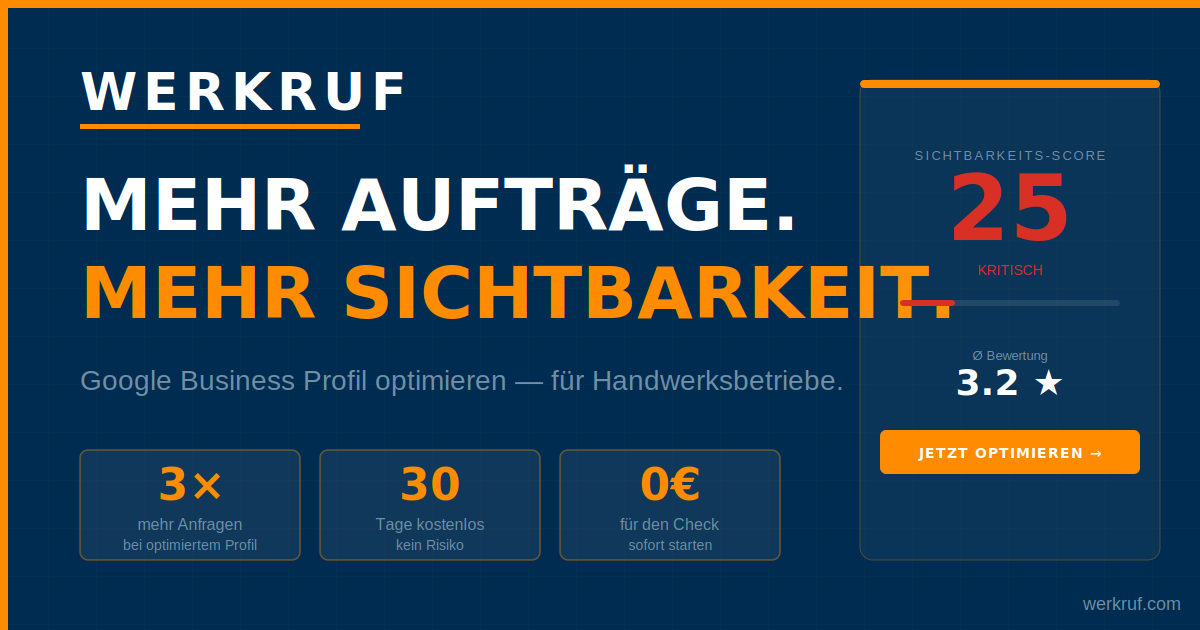
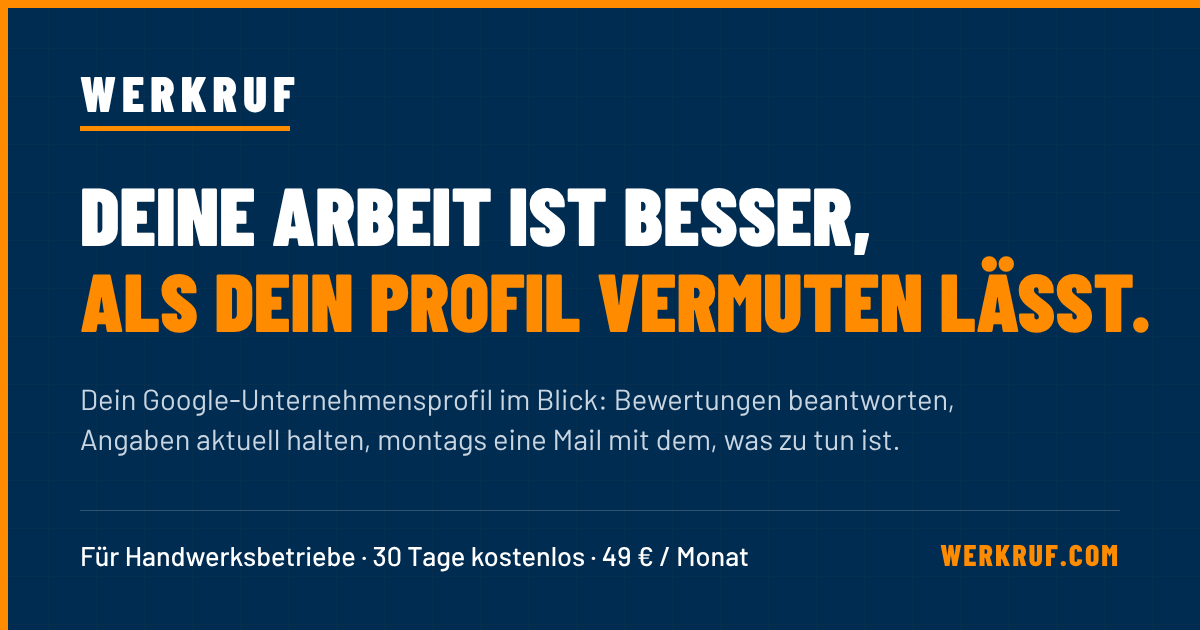
Website: honest link preview, "Wer dahintersteht", SMS mention, outreach privacy text
- og-image (svg + png) replaced: the old preview promised "3× mehr
  Anfragen", "Mehr Aufträge. Mehr Sichtbarkeit." and a free check that
  no longer exists; the new one uses the hero line, what WERKRUF does
  and the price
- Page title, description, keywords and social tags without "Mehr
  Aufträge" / "Sichtbarkeit steigern"
- New homepage section "Wer dahintersteht": name, city, e-mail and
  phone from config/anbieter.js (same source as the imprint)
- SMS review request (live since WP14) now mentioned in the review card
  and the price list; FAQ/closing CTA no longer say "Den Rest macht
  WERKRUF" / "Den Rest kannst du vergessen"
- Privacy policy section 16 describes the current outreach: finding
  note, subject variants, open detection, manual reply note, at most one
  reminder, objection via "Nein", minimal block record
- Tests: public-truth test now also covers index.html and og-image.svg;
  W1 feature-truth updated to link, QR code and SMS

Claude-Session: https://claude.ai/code/session_019hF6PNgtYwQ9GwYG434gR8

diff --git a/src/components/WerDahinter.js b/src/components/WerDahinter.js
@@ -1,0 +1,90 @@
+/*
+ * „Wer dahintersteht" — ein kurzer Abschnitt auf der Startseite.
+ *
+ * Warum: Betriebe und Innungen schauen vor einer Antwort zuerst auf
+ * werkruf.com. Bis hier sagte die Seite nirgends, wer WERKRUF macht —
+ * der Name stand nur im Impressum. Ein Einzelanbieter wirkt nicht
+ * kleiner, wenn er sich zeigt, sondern erreichbarer.
+ *
+ * Nur Tatsachen: Name, Ort, direkter Kontakt (aus config/anbieter.js,
+ * derselben Quelle wie das Impressum). Keine erfundenen Kundenzahlen,
+ * Zitate oder Gründungsgeschichten.
+ *
+ * Nur fuer die Handwerks-Marke; andere Branchen (Gastro/Beauty) sind
+ * nicht live und bekommen den Abschnitt nicht.
+ */
+import React from 'react';
+import styled from 'styled-components';
+import { Link } from 'react-router-dom';
+import { Mail, Phone } from 'lucide-react';
+import { useIndustry } from '../context/IndustryContext';
+import { ANBIETER, telefonHref } from '../config/anbieter';
+
+const Section = styled.section`
+  background: var(--color-white);
+  border-top: 1px solid var(--color-border);
+  padding: 72px 24px;
+`;
+const Inner = styled.div`max-width: 660px; margin: 0 auto;`;
+const Eyebrow = styled.p`
+  font-family: var(--font-body);
+  font-weight: 700; font-size: 0.75rem;
+  letter-spacing: 0.18em; text-transform: uppercase;
+  color: var(--color-accent); margin-bottom: 12px;
+`;
+const Titel = styled.h2`
+  font-family: var(--font-display); font-weight: var(--heading-weight);
+  font-size: clamp(1.7rem, 3.6vw, 2.3rem);
+  text-transform: var(--text-transform);
+  color: var(--color-primary); line-height: 1.08;
+  margin-bottom: 18px;
+  overflow-wrap: break-word; hyphens: auto;
+`;
+const Text = styled.p`
+  font-family: var(--font-body); font-size: 1rem; line-height: 1.7;
+  color: var(--color-text); margin: 0 0 14px;
+`;
+const Kontakt = styled.div`
+  display: flex; flex-wrap: wrap; gap: 10px 22px; margin-top: 20px;
+  a {
+    display: inline-flex; align-items: center; gap: 8px;
+    font-family: var(--font-body); font-weight: 600; font-size: .95rem;
+    color: var(--color-primary); text-decoration: none;
+    overflow-wrap: anywhere;
+    svg { color: var(--color-accent); flex-shrink: 0; }
+    &:hover { color: var(--color-accent); }
+  }
+`;
+const Klein = styled.p`
+  font-family: var(--font-body); font-size: .82rem; line-height: 1.6;
+  color: var(--color-text-muted); margin: 18px 0 0;
+  a { color: inherit; text-decoration: underline; }
+`;
+
+export default function WerDahinter() {
+  const { key } = useIndustry();
+  if (key !== 'handwerk') return null;
+  const a = ANBIETER;
+  return (
+    <Section id="wer-dahinter" data-testid="wer-dahinter">
+      <Inner>
+        <Eyebrow>Wer dahintersteht</Eyebrow>
+        <Titel>Gebaut in Hamburg — von jemandem, den du erreichst.</Titel>
+        <Text>
+          Ich bin {a.name} und entwickle {a.angebot} selbst, in {a.ort}. Kein Konzern, kein
+          Callcenter: Wenn du eine Frage hast oder etwas nicht so funktioniert, wie es soll,
+          landest du direkt bei mir.
+        </Text>
+        <Text>
+          {a.angebot} ist neu und wird laufend besser. Was sich zuletzt geändert hat, steht
+          im <Link to="/changelog" style={{ color: 'var(--color-primary)' }}>Changelog</Link>.
+        </Text>
+        <Kontakt>
+          <a href={`mailto:${a.email}`}><Mail size={17} /> {a.email}</a>
+          <a href={telefonHref(a.telefon)}><Phone size={17} /> {a.telefon}</a>
+        </Kontakt>
+        <Klein>Anbieter und Anschrift: <Link to="/impressum">Impressum</Link></Klein>
+      </Inner>
+    </Section>
+  );
+}

diff --git a/src/pages/Datenschutz.js b/src/pages/Datenschutz.js
@@ -462,21 +462,33 @@ export default function Datenschutz() {
       <Section>
         <H2>16. Geschäftliche Ansprache von Betrieben</H2>
         <P>
-          Wir sprechen Handwerksbetriebe einzeln an, um sie als frühe Kunden („Founding Partner")
-          zu gewinnen. Dafür verarbeiten wir öffentlich zugängliche geschäftliche Angaben aus
-          Branchenverzeichnissen, von Websites und aus Google-Unternehmensprofilen: Betriebsname,
-          Gewerk, Ort, geschäftliche E-Mail-Adresse, Telefon, Website, gegebenenfalls Name eines
-          öffentlich genannten Ansprechpartners sowie einen von uns formulierten Satz zum
-          öffentlichen Profil. Zu jeder Nachricht speichern wir Versand, Zustellung, Öffnung, den
-          Aufruf der Präsentation und eine Rückmeldung über den Knopf „Ja, Interesse".
+          Wir sprechen Handwerksbetriebe einzeln per E-Mail an, um sie als frühe Kunden
+          („Founding Partner") zu gewinnen. Jede Nachricht wird von Hand vorbereitet und einzeln
+          verschickt. Dafür verarbeiten wir öffentlich zugängliche geschäftliche Angaben aus
+          Branchen- und Mitgliederverzeichnissen, von Websites und aus Google-Unternehmensprofilen:
+          Betriebsname, Gewerk, Ort, geschäftliche E-Mail-Adresse, Telefon, Website, gegebenenfalls
+          den Namen eines öffentlich genannten Ansprechpartners sowie einen von uns notierten
+          Hinweis zum öffentlichen Google-Profil des Betriebs (zum Beispiel zur Zahl der
+          Bewertungen oder zu fehlenden Angaben).
+        </P>
+        <P>
+          Zu jeder Nachricht speichern wir den Text, die Betreffzeile (wir vergleichen zwei
+          Varianten), den Versand, die Zustellung und — soweit der E-Mail-Dienst sie erkennt —
+          die Öffnung. Erkannt wird eine Öffnung über ein kleines Bild in der Nachricht; das ist
+          kein sicherer Lesenachweis. Antwortet ein Betrieb, vermerken wir von Hand, dass und in
+          welche Richtung er geantwortet hat (Interesse, kein Interesse, sonstiges). Ohne Antwort
+          schicken wir höchstens eine kurze Erinnerung. Bei früheren Nachrichten mit Link auf eine
+          Präsentationsseite haben wir außerdem den Aufruf der Seite und eine Rückmeldung über den
+          Knopf „Ja, Interesse" gespeichert. Den Versand übernimmt Brevo (Abschnitt 12).
         </P>
         <P>
           Rechtsgrundlage ist unser berechtigtes Interesse, unser Angebot Betrieben vorzustellen,
           für die es passt (Art. 6 Abs. 1 lit. f DSGVO). Wer nicht mehr angesprochen werden möchte,
-          kann jederzeit widersprechen — eine kurze Antwort genügt. Wir schicken dann keine weitere
-          Ansprache und behalten nur, was nötig ist, damit es dabei bleibt. Angaben zu Betrieben,
-          bei denen eine Zusammenarbeit nicht zustande kommt, löschen wir, sobald wir sie dafür
-          nicht mehr benötigen.
+          kann jederzeit widersprechen (Art. 21 DSGVO) — eine kurze Antwort wie „Nein" genügt. Wir
+          schicken dann keine weitere Nachricht und behalten nur, was nötig ist, damit es dabei
+          bleibt (Betriebsname, E-Mail-Adresse, Sperrvermerk). Angaben zu Betrieben, bei denen eine
+          Zusammenarbeit nicht zustande kommt, löschen wir, sobald wir sie dafür nicht mehr
+          benötigen.
         </P>
       </Section>
 

diff --git a/public/index.html b/public/index.html
@@ -5,8 +5,8 @@
     <link rel="icon" href="%PUBLIC_URL%/favicon.ico" />
     <meta name="viewport" content="width=device-width, initial-scale=1" />
     <meta name="theme-color" content="#002C51" />
-    <meta name="description" content="WERKRUF – Mehr Aufträge für Handwerksbetriebe. Google Business Profil optimieren, Bewertungen managen, Sichtbarkeit steigern. 30 Tage kostenlos testen." />
-    <meta name="keywords" content="Google Business Profil, Handwerk, lokale Sichtbarkeit, Bewertungen, SEO Handwerk, mehr Aufträge" />
+    <meta name="description" content="Bewertungen beantworten, Profil aktuell halten, montags eine Mail mit dem, was zu tun ist. Für Handwerksbetriebe. 30 Tage kostenlos testen, danach 49 € im Monat." />
+    <meta name="keywords" content="Google-Unternehmensprofil, Handwerk, Google-Bewertungen, Bewertungen beantworten, Handwerksbetrieb" />
     <meta name="author" content="WERKRUF" />
     <meta name="robots" content="index, follow" />
     <link rel="canonical" href="https://werkruf.com" />
@@ -14,19 +14,19 @@
     <!-- Open Graph -->
     <meta property="og:type"        content="website" />
     <meta property="og:url"         content="https://werkruf.com" />
-    <meta property="og:title"       content="WERKRUF – Mehr Aufträge für Handwerksbetriebe" />
-    <meta property="og:description" content="Google Business Profil optimieren, Bewertungen managen, Sichtbarkeit steigern. 30 Tage kostenlos testen." />
+    <meta property="og:title"       content="WERKRUF – Google-Unternehmensprofil für Handwerksbetriebe" />
+    <meta property="og:description" content="Bewertungen beantworten, Profil aktuell halten, montags eine Mail mit dem, was zu tun ist. Für Handwerksbetriebe. 30 Tage kostenlos testen, danach 49 € im Monat." />
     <meta property="og:image"       content="https://werkruf.com/og-image.png" />
     <meta property="og:locale"      content="de_DE" />
     <meta property="og:site_name"   content="WERKRUF" />
 
     <!-- Twitter Card -->
     <meta name="twitter:card"        content="summary_large_image" />
-    <meta name="twitter:title"       content="WERKRUF – Mehr Aufträge für Handwerksbetriebe" />
-    <meta name="twitter:description" content="Google Business Profil optimieren, Bewertungen managen, Sichtbarkeit steigern." />
+    <meta name="twitter:title"       content="WERKRUF – Google-Unternehmensprofil für Handwerksbetriebe" />
+    <meta name="twitter:description" content="Bewertungen beantworten, Profil aktuell halten, montags eine Mail mit dem, was zu tun ist. Für Handwerksbetriebe. 30 Tage kostenlos testen, danach 49 € im Monat." />
     <meta name="twitter:image"       content="https://werkruf.com/og-image.png" />
 
-    <title>WERKRUF – Mehr Aufträge für Handwerksbetriebe</title>
+    <title>WERKRUF – Google-Unternehmensprofil für Handwerksbetriebe</title>
 
     <!--
       Rueckfall fuer den Fall, dass React nie startet.

diff --git a/src/oeffentlicheWahrheit.test.js b/src/oeffentlicheWahrheit.test.js
@@ -58,6 +58,12 @@ const OEFFENTLICH = [
   'src/components/FAQ.js',
   'src/components/AbschlussCTA.js',
   'src/components/Footer.js',
+  'src/components/WerDahinter.js',
+  /* 19.11.2026: Was beim Teilen eines Links erscheint (Titel,
+     Beschreibung, Vorschaubild), ist genauso öffentliche Aussage —
+     dort standen noch „3× mehr Anfragen" und „Mehr Aufträge". */
+  'public/index.html',
+  'public/og-image.svg',
 ];
 
 /* Kommentare müssen raus, bevor hier Textmuster geprüft werden: Die
@@ -258,5 +264,38 @@ describe('der Kopf kennt den Anmeldezustand', () => {
     /* Vorher gab es im Kopf gar keinen — der einzige Einstieg war der
        Hero-CTA. */
     expect(kopf()).toMatch(/isAuthenticated\s*\?\s*'\/dashboard'\s*:\s*'\/signup'/);
+  });
+});
+
+describe('Vorschau beim Teilen und Startseite (19.11.2026)', () => {
+  it('Titel, Beschreibung und Vorschaubild versprechen keine Aufträge, Sichtbarkeit oder Gratis-Check', () => {
+    const kopf = lies('public/index.html');
+    const bild = lies('public/og-image.svg');
+    for (const t of [kopf, bild]) {
+      expect(t).not.toMatch(/Mehr Aufträge/i);
+      expect(t).not.toMatch(/Sichtbarkeit steigern|MEHR SICHTBARKEIT/i);
+      expect(t).not.toMatch(/3\s*×/);
+      expect(t).not.toMatch(/0\s*€\s*<\/text>|für den Check/i);
+    }
+    expect(kopf).toMatch(/<meta property="og:image"\s+content="https:\/\/werkruf\.com\/og-image\.png"/);
+    expect(fs.existsSync(path.join(wurzel, 'public/og-image.png'))).toBe(true);
+  });
+
+  it('SMS-Bewertungsanfrage ist gebaut und wird jetzt auch genannt', () => {
+    expect(lies('src/components/dashboard/SmsBewertungsanfrage.js')).toMatch(/review-request/);
+    expect(konfigHandwerk()).toMatch(/SMS/);
+  });
+
+  it('kein „Den Rest macht WERKRUF" — WERKRUF bereitet vor, der Betrieb gibt frei', () => {
+    const text = oeffentlicherText() + konfigHandwerk();
+    expect(text).not.toMatch(/Den Rest macht/i);
+    expect(text).not.toMatch(/Den Rest kannst du vergessen/i);
+  });
+
+  it('„Wer dahintersteht" nimmt Name und Kontakt aus derselben Quelle wie das Impressum', () => {
+    const w = ohneKommentare(lies('src/components/WerDahinter.js'));
+    expect(w).toMatch(/from '\.\.\/config\/anbieter'/);
+    expect(w).not.toMatch(/info@werkruf\.com|\+49 176/);   // nichts doppelt hart codiert
+    expect(ohneKommentare(lies('src/pages/HomePage.js'))).toMatch(/<WerDahinter \/>/);
   });
 });

diff --git a/src/config/industryConfig.js b/src/config/industryConfig.js
@@ -154,8 +154,8 @@ export const INDUSTRIES = {
             },
             {
               title: 'Mehr Bewertungen bekommen',
-              body: 'Dein persönlicher Google-Bewertungslink und ein QR-Code zum Ausdrucken — für die Rechnung, die Übergabe, den Transporter. Den Link verschickst du selbst, wann du willst.',
-              tag: 'Link und QR-Code',
+              body: 'Dein persönlicher Google-Bewertungslink, ein QR-Code zum Ausdrucken und eine kurze SMS an zufriedene Kunden — für die Rechnung, die Übergabe, den Transporter. Du entscheidest, wen du fragst und wann.',
+              tag: 'Link, QR-Code und SMS',
             },
           ],
         },
@@ -229,7 +229,7 @@ export const INDUSTRIES = {
         },
         {
           frage:   'Wie lange dauert die Einrichtung?',
-          antwort: 'Zwei Minuten. Konto anlegen, Google-Profil verbinden, fertig. Den Rest macht WERKRUF.',
+          antwort: 'Zwei Minuten. Konto anlegen, Google-Profil verbinden, fertig. Danach sagt dir WERKRUF, was zu tun ist — du entscheidest, was davon zu Google geht.',
         },
         {
           frage:   'Brauche ich technisches Wissen?',
@@ -357,7 +357,7 @@ export const INDUSTRIES = {
         'Antwortvorschlag zu jeder Bewertung — du gibst frei',
         'Öffnungszeiten, Leistungen und Kontaktdaten direkt ändern',
         'Fotos hochladen, die bei Google landen',
-        'Bewertungslink und QR-Code für deine Kunden',
+        'Bewertungslink, QR-Code und SMS-Anfrage für deine Kunden',
         'Dein Google-Profil regelmäßig geprüft',
         'Monatlich kündbar — kein Jahresvertrag',
       ],

diff --git a/src/pages/HomePage.js b/src/pages/HomePage.js
@@ -5,6 +5,7 @@ import Features     from '../components/Features';
 import Vergleich    from '../components/Vergleich';
 import Preis        from '../components/Preis';
 import FAQ          from '../components/FAQ';
+import WerDahinter  from '../components/WerDahinter';
 import AbschlussCTA from '../components/AbschlussCTA';
 import { clearPublicFunnel } from '../utils/publicFunnel';
 
@@ -34,6 +35,7 @@ import { clearPublicFunnel } from '../utils/publicFunnel';
  *   Features      Drei Ergebnisse, darunter die Funktionen
  *   Vergleich     Selbst machen, Agentur oder WERKRUF
  *   Preis         49 €, einmal und deutlich
+ *   WerDahinter   Wer WERKRUF macht und wie man ihn erreicht (19.11.2026)
  *   FAQ           Die sieben Fragen vor der Entscheidung
  *   AbschlussCTA  Ein Ziel, derselbe Weg wie im Hero
  *
@@ -57,6 +59,7 @@ export default function HomePage() {
       <Features />
       <Vergleich />
       <Preis />
+      <WerDahinter />
       <FAQ />
       <AbschlussCTA />
     </main>

diff --git a/src/positionierung.test.js b/src/positionierung.test.js
@@ -65,11 +65,13 @@ describe('Nutzenbloecke', () => {
 });
 
 describe('Feature-Truth', () => {
-  it('W1 — „Mehr Bewertungen": Link und QR-Code existieren im Dashboard; Versand bleibt beim Betrieb', () => {
+  it('W1 — „Mehr Bewertungen": Link, QR-Code und SMS existieren im Dashboard; wen und wann entscheidet der Betrieb', () => {
     const karte = gruppen[0].karten.find((k) => k.title === 'Mehr Bewertungen bekommen');
-    expect(karte.body).toMatch(/Den Link verschickst du selbst/);
+    expect(karte.body).toMatch(/Du entscheidest, wen du fragst und wann/);
+    expect(karte.body).not.toMatch(/automatisch/i);
     const seite = lies('src/pages/dashboard/DashboardKundenGewinnung.js');
     expect(seite).toMatch(/QRCodeSVG/);
+    expect(seite).toMatch(/SmsBewertungsanfrage/);              // SMS-Anfrage ist eingebaut (WP14)
     expect(seite).toMatch(/<ProGate feature="Mehr Bewertungen">/);
   });
   it('W2 — Sofortmeldung bei schlechter Bewertung und Wochenmail existieren', () => {

diff --git a/src/components/AbschlussCTA.js b/src/components/AbschlussCTA.js
@@ -88,7 +88,7 @@ export default function AbschlussCTA() {
         </Titel>
         <Text>
           {brand.name} behält ihn im Blick und sagt dir, was zu tun ist.
-          Den Rest kannst du vergessen.
+          Veröffentlicht wird nur, was du freigibst.
         </Text>
 
         <Cta to={ziel}>
